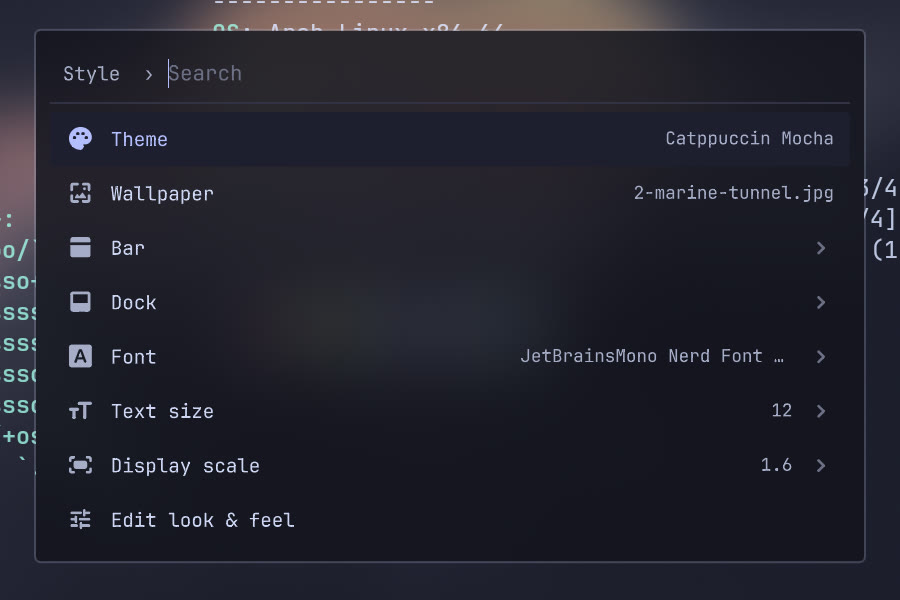
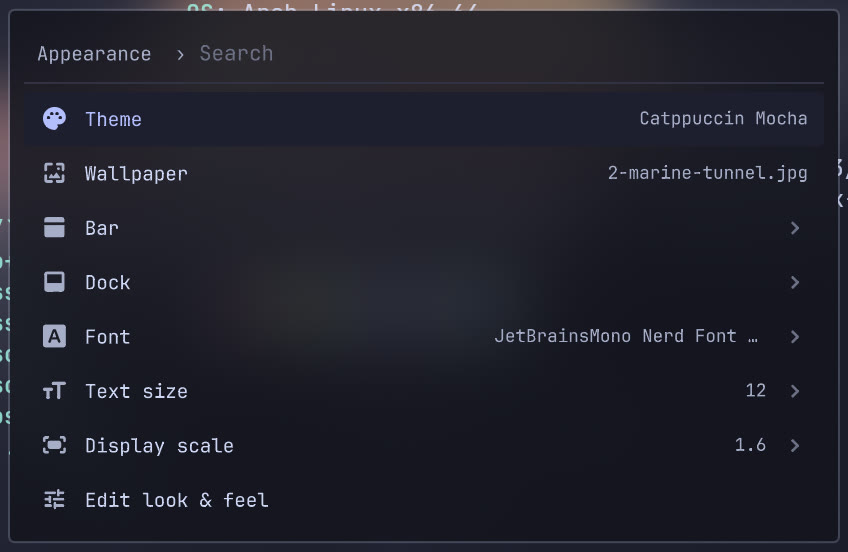
starlink: a fourth shipped theme, sampled from a ringed-giant wallpaper
Deep warm-black space surfaces, the rings' ice-teal as the accent (text and
borders tinted toward it), copper from the planet's lit edge, rust red,
nebula blue and violet; darkcyan folders; Floating bar. Every text pair
meets the contrast targets (body 16:1, secondary 7:1, inactive 3.6:1).
The wallpaper ships as a 555 KB JPEG.

README: four themes in the banner and the gallery, menu shots retaken on the
regrouped Appearance page, and an optional Spotify section.

diff --git a/README.md b/README.md
@@ -10,7 +10,7 @@ Lua-configured Hyprland · a hand-built Quickshell shell · one palette for ever
 ![Arch Linux](https://img.shields.io/badge/Arch-Linux-0d0d0f?style=flat-square&logo=archlinux&logoColor=white)
 ![License: MIT](https://img.shields.io/badge/license-MIT-0d0d0f?style=flat-square)
 
-![Three themes](Screenshots/banner.jpg)
+![Four themes](Screenshots/banner.jpg)
 
 [Themes](#themes) · [Features](#features) · [Install](#install) · [Keybinds](#keybinds) · [Customise](#make-it-yours) · [Help](#troubleshooting)
 
@@ -20,35 +20,40 @@ Lua-configured Hyprland · a hand-built Quickshell shell · one palette for ever
 
 ## Themes
 
-Three themes ship with it. Switch live with **`SUPER` `CTRL` `SHIFT` `SPACE`**. Every app changes
-with it: the shell, terminals, GTK and Qt apps, Neovim, btop, VS Code, Firefox and the login
-screen.
+Four themes ship with it. Switch live with **`SUPER` `CTRL` `SHIFT` `SPACE`**. Every app changes
+with it: the shell, terminals, GTK and Qt apps, Neovim, btop, VS Code, Firefox, Spotify and the
+login screen.
 
 <table>
 <tr>
-<td width="33%" align="center"><b>HyprMono</b><br><sub>dark · greys only</sub></td>
-<td width="33%" align="center"><b>HyprMono Light</b><br><sub>the same design on white</sub></td>
-<td width="33%" align="center"><b>Catppuccin Mocha</b><br><sub>the official Mocha palette</sub></td>
+<td width="25%" align="center"><b>HyprMono</b><br><sub>dark · greys only</sub></td>
+<td width="25%" align="center"><b>HyprMono Light</b><br><sub>the same design on white</sub></td>
+<td width="25%" align="center"><b>Catppuccin Mocha</b><br><sub>the official Mocha palette</sub></td>
+<td width="25%" align="center"><b>Starlink</b><br><sub>ringed giant · ice-teal on deep space</sub></td>
 </tr>
 <tr>
 <td><img src="Screenshots/hyprmono.jpg" alt="HyprMono"></td>
 <td><img src="Screenshots/hyprmono-light.jpg" alt="HyprMono Light"></td>
 <td><img src="Screenshots/catppuccin-mocha.jpg" alt="Catppuccin Mocha"></td>
+<td><img src="Screenshots/starlink.jpg" alt="Starlink"></td>
 </tr>
 <tr>
 <td><img src="Screenshots/launcher-hyprmono.jpg" alt="Launcher"></td>
 <td><img src="Screenshots/launcher-hyprmono-light.jpg" alt="Launcher, light"></td>
 <td><img src="Screenshots/launcher-catppuccin-mocha.jpg" alt="Launcher, Catppuccin"></td>
+<td><img src="Screenshots/launcher-starlink.jpg" alt="Launcher, Starlink"></td>
 </tr>
 <tr>
 <td><img src="Screenshots/menu-hyprmono.jpg" alt="Menu"></td>
 <td><img src="Screenshots/menu-hyprmono-light.jpg" alt="Menu, light"></td>
 <td><img src="Screenshots/menu-catppuccin-mocha.jpg" alt="Menu, Catppuccin"></td>
+<td><img src="Screenshots/menu-starlink.jpg" alt="Menu, Starlink"></td>
 </tr>
 <tr>
 <td><img src="Screenshots/panel-hyprmono.jpg" alt="Power panel"></td>
 <td><img src="Screenshots/panel-hyprmono-light.jpg" alt="Power panel, light"></td>
 <td><img src="Screenshots/panel-catppuccin-mocha.jpg" alt="Power panel, Catppuccin"></td>
+<td><img src="Screenshots/panel-starlink.jpg" alt="Power panel, Starlink"></td>
 </tr>
 </table>
 
@@ -112,6 +117,21 @@ It's safe to run again, and it never deletes or overwrites your files.
 | `--no-aur` | Skip the AUR packages |
 
 </details>
+
+### Optional: Spotify
+
+Spotify follows the theme through [Spicetify](https://spicetify.app/). Install both, then apply
+the theme once:
+
+```bash
+yay -S spotify-launcher spicetify-cli
+spicetify config spotify_path ~/.local/share/spotify-launcher/install/usr/share/spotify
+hypr-theme reload
+```
+
+From then on every theme switch recolours Spotify. It restarts Spotify if nothing is playing;
+otherwise the new colours show the next time it starts. After a Spotify update, run
+`spicetify backup apply` again.
 
 ### First steps
 
@@ -241,7 +261,7 @@ Built on [Hyprland](https://hyprland.org/), [Quickshell](https://quickshell.org/
 [Omarchy](https://omarchy.org/).
 
 **Wallpapers** aren't mine and aren't covered by the licence. HyprMono's is Mount Ararat over
-Yerevan (photographer unknown). The light and Catppuccin wallpapers came from wallpaper sites
-without a traceable author. If one is yours, open an issue and it will be credited or removed.
+Yerevan (photographer unknown). The light, Catppuccin and Starlink wallpapers came from
+wallpaper sites (Starlink's is wallhaven 7jeozo) without a traceable author. If one is yours, open an issue and it will be credited or removed.
 
 The configuration is [MIT](LICENSE).

diff --git a/theme/.config/hypr-theme/skills/hypr/SKILL.md b/theme/.config/hypr-theme/skills/hypr/SKILL.md
@@ -28,8 +28,8 @@ fallbacks kept for when the shell is not running). **Edit files in the repo**
 **Changes stay on this machine.** Do not commit, push or open a PR unless
 the user asks for it; `git diff` shows what you changed and `git stash` /
 `git checkout -- <file>` undo it. Themes the user makes are theirs:
-`themes/` tracks only the three shipped ones (`hyprmono`, `hyprmono-light`,
-`catppuccin-mocha`) and `.gitignore` keeps every other theme folder out —
+`themes/` tracks only the four shipped ones (`hyprmono`, `hyprmono-light`,
+`catppuccin-mocha`, `starlink`) and `.gitignore` keeps every other theme folder out —
 never force-add one.
 
 **If `MAINTAINER.md` exists next to this file, read it now**: you are then
